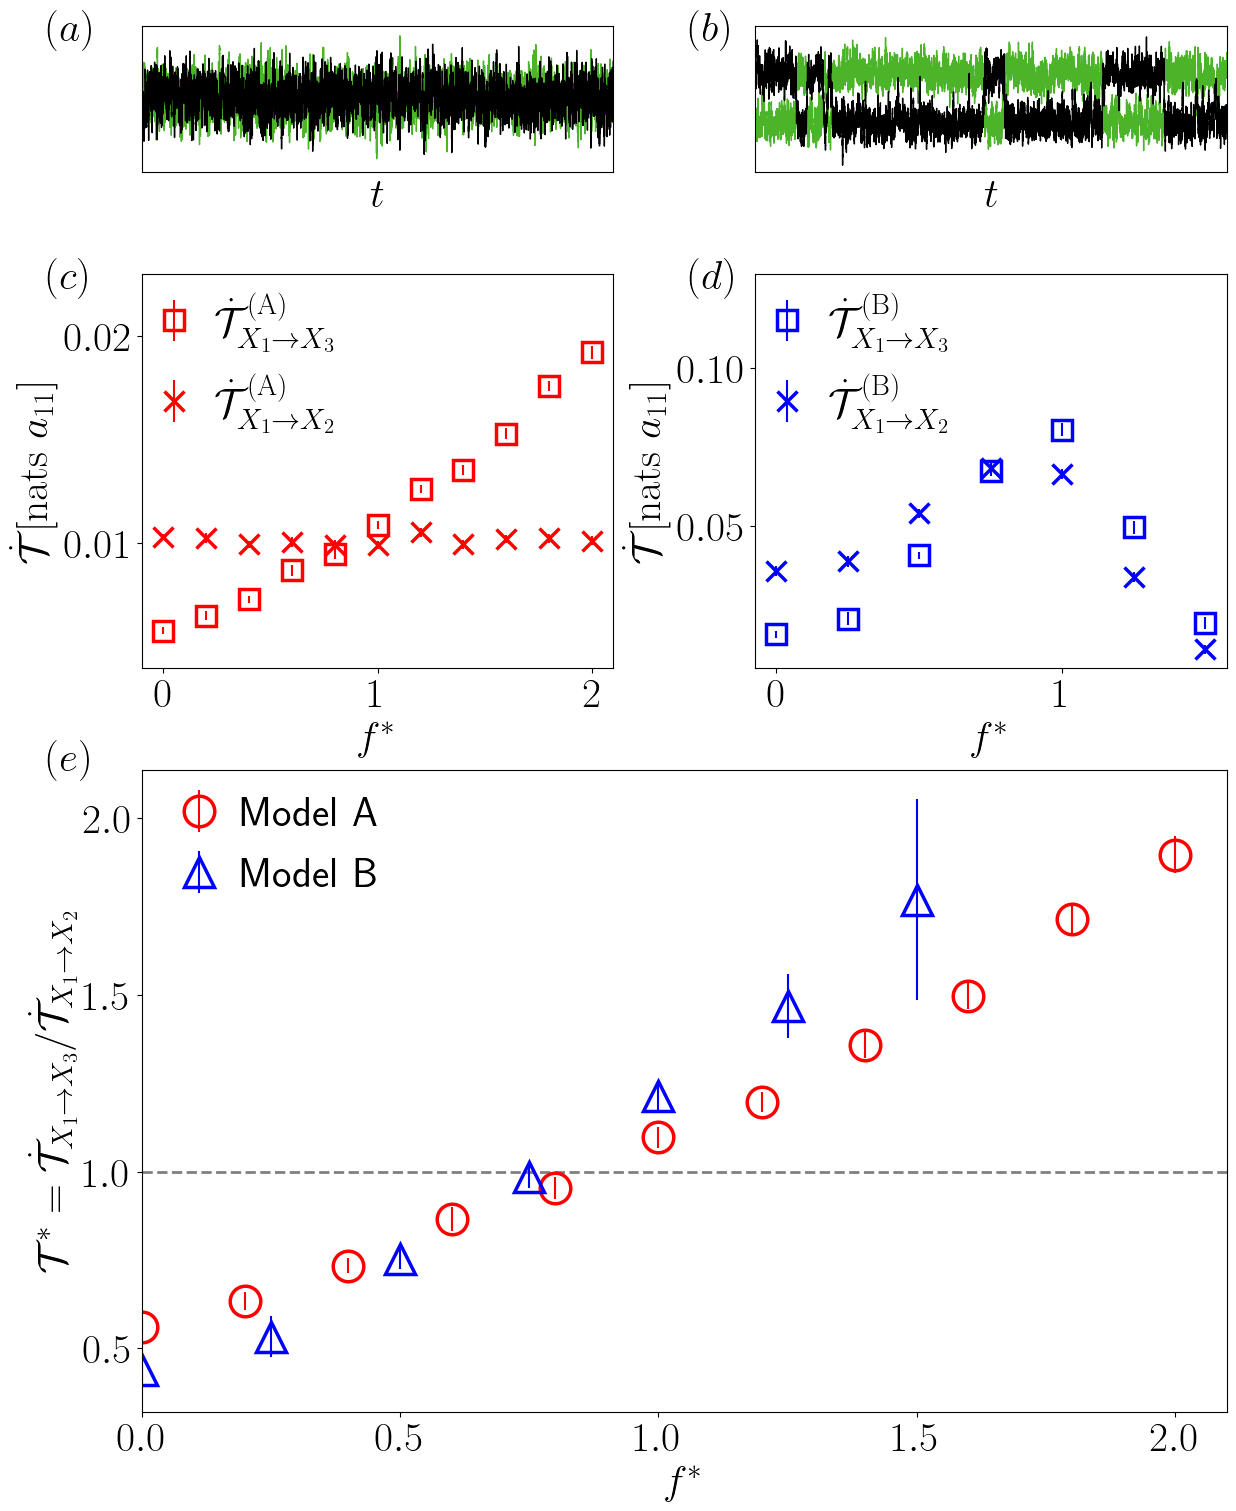
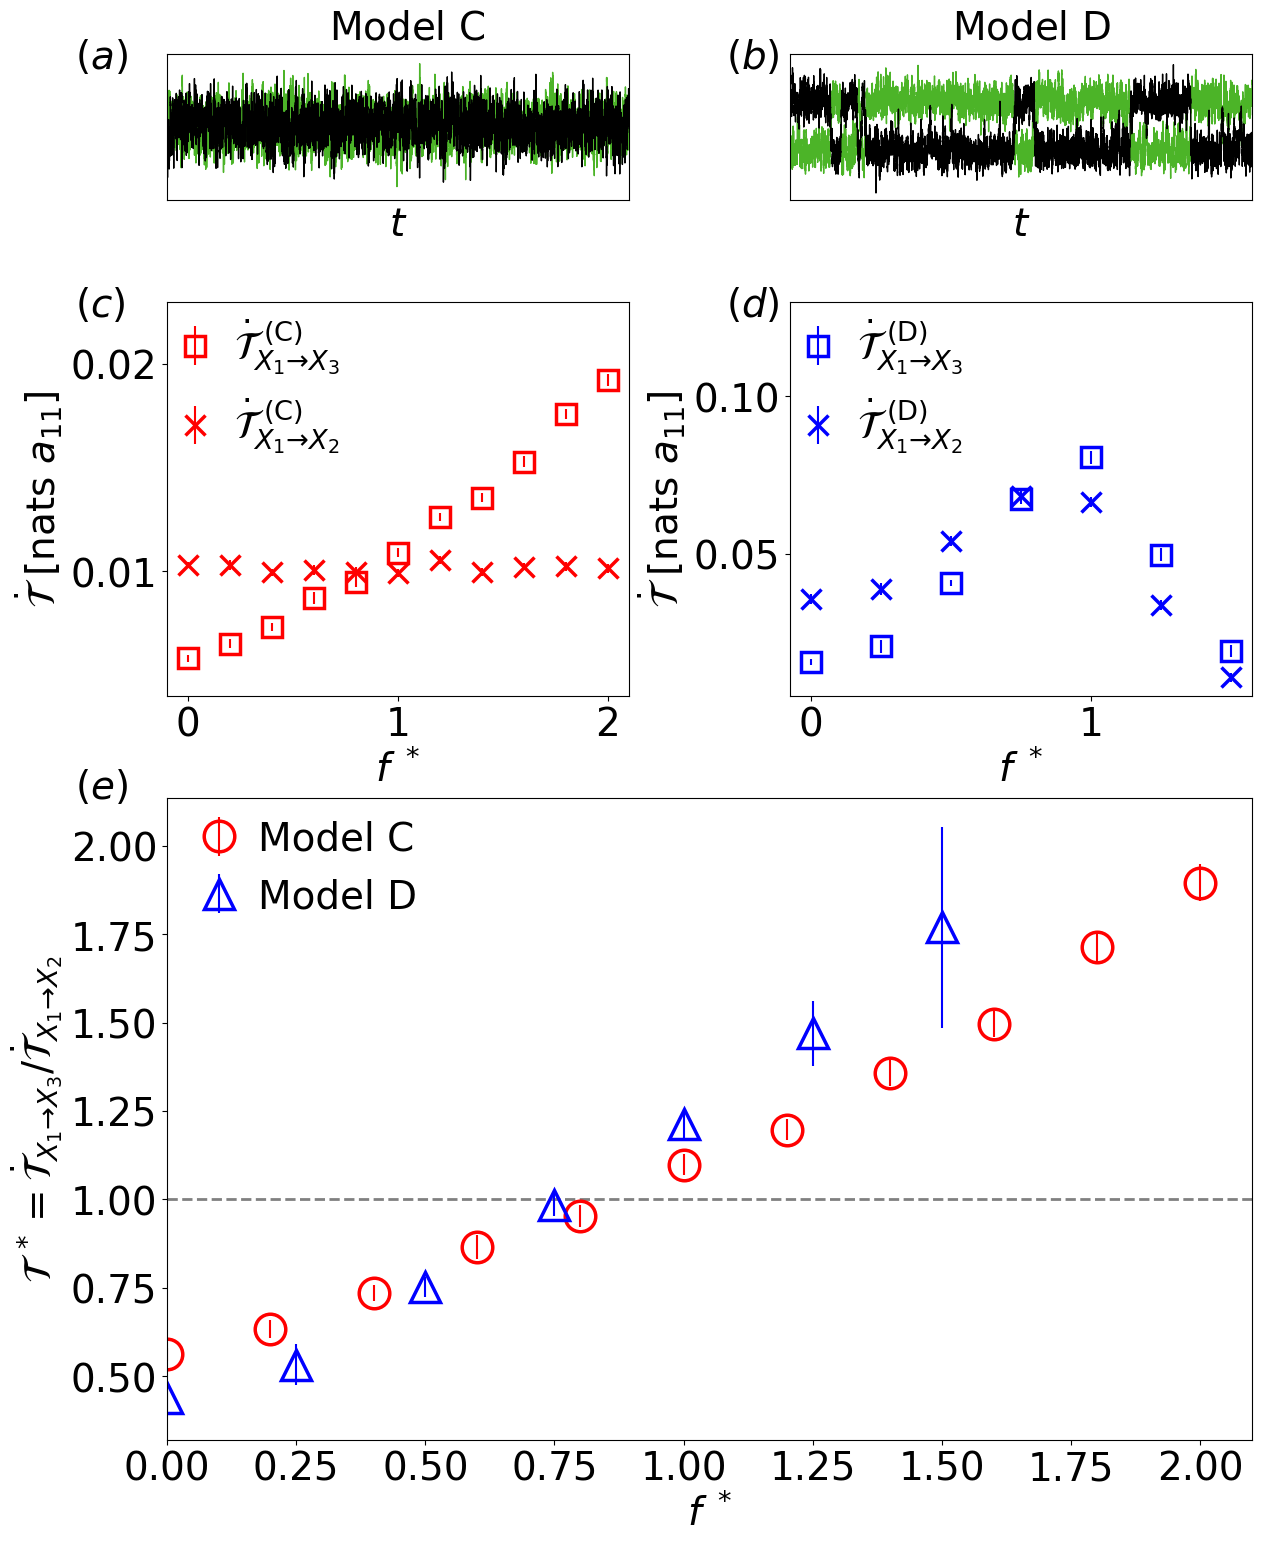
Add files via upload

diff --git a/figures/fig3/plot_dpi_5.py b/figures/fig3/plot_dpi_5.py
@@ -1,0 +1,101 @@
+import math
+import copy
+import time
+import numba
+import numpy as np
+import scipy.ndimage
+import numpy.random
+from matplotlib import pyplot as plt
+from matplotlib import cm
+from mpl_toolkits.axes_grid1.inset_locator import inset_axes
+#import pandas as pd
+import matplotlib as mpl
+from matplotlib.lines import Line2D
+import matplotlib.image as mpimg
+from matplotlib.offsetbox import TextArea, DrawingArea, OffsetImage, AnnotationBbox
+import matplotlib.gridspec as gridspec
+from mpl_toolkits.mplot3d import Axes3D
+from numba import jit
+from io import StringIO
+
+#mpl.style.use("classic")
+#mpl.rcParams['mathtext.fontset'] = 'cm'
+#mpl.rcParams['mathtext.rm'] = 'serif'
+#mpl.rcParams.update({'font.size': 22})
+plt.rc('font', size = 28)
+#plt.rc('text', usetex = True)
+plt.rc('mathtext',rm='dejavusans')
+plt.rc('mathtext',fontset='dejavusans')
+
+fig = plt.figure(figsize = (14, 18))
+plt.subplots_adjust(hspace=0.7,wspace=0.35)
+gs = gridspec.GridSpec(6, 2)
+ax00=fig.add_subplot(gs[0,0])
+ax01=fig.add_subplot(gs[0,1])
+axn0=fig.add_subplot(gs[1:3,0])
+axn1=fig.add_subplot(gs[1:3,1])
+ax10=fig.add_subplot(gs[3:,:])
+
+xl=np.loadtxt('te_linear.txt',skiprows=1)
+xs=np.loadtxt('te_switching.txt',skiprows=1)
+
+axn0.errorbar(xl[:,0]/xl[:,1],xl[:,4],yerr=xl[:,5],marker='s',color='r',ms=15,fillstyle='none',mew=2.5,linestyle='None',label=r'$\dot{\mathcal{T}}_{X_{1}\to X_{3}}^{~(\mathrm{C})}$')
+axn0.errorbar(xl[:,0]/xl[:,1],xl[:,2],yerr=xl[:,3],marker='x',color='r',ms=15,fillstyle='none',mew=2.5,linestyle='None',label=r'$\dot{\mathcal{T}}_{X_{1}\to X_{2}}^{~(\mathrm{C})}$')
+
+axn1.errorbar(xs[:,0]/xs[:,1],xs[:,4],yerr=xs[:,5],marker='s',color='b',ms=15,fillstyle='none',mew=2.5,linestyle='None',label=r'$\dot{\mathcal{T}}_{X_{1}\to X_{3}}^{~(\mathrm{D})}$')
+axn1.errorbar(xs[:,0]/xs[:,1],xs[:,2],yerr=xs[:,3],marker='x',color='b',ms=15,fillstyle='none',mew=2.5,linestyle='None',label=r'$\dot{\mathcal{T}}_{X_{1}\to X_{2}}^{~(\mathrm{D})}$')
+
+axn0.set_xlabel(r'$f^{~*}$')
+axn1.set_xlabel(r'$f^{~*}$')
+axn0.set_ylabel(r'$\dot{\mathcal{T}}~[\mathrm{nats}~a_{11}]$')
+axn1.set_ylabel(r'$\dot{\mathcal{T}}~[\mathrm{nats}~a_{11}]$')
+axn0.set_ylim(0.004,0.023)
+axn1.set_ylim(0.005,0.13)
+axn0.set_yticks([0.01,0.02])
+axn1.set_yticks([0.05,0.1])
+axn0.legend(frameon='False',framealpha=0.0,loc='upper left',bbox_to_anchor=(-0.1, 1.05),handletextpad=0.0)
+axn1.legend(frameon='False',framealpha=0.0,loc='upper left',bbox_to_anchor=(-0.1, 1.05),handletextpad=0.0)
+
+ax10.hlines(1,0,15,color='gray',linestyle='--',lw=2)
+ax10.errorbar(xl[:,0]/xl[:,1],xl[:,4]/xl[:,2],yerr=xl[:,4]/xl[:,2]*(xl[:,5]**2/xl[:,4]**2+xl[:,3]**2/xl[:,2]**2)**0.5,marker='o',color='r',ms=22,fillstyle='none',mew=2.5,linestyle='None',label=r'Model C')
+ax10.errorbar(xs[:,0]/xs[:,1],xs[:,4]/xs[:,2],yerr=xs[:,4]/xs[:,2]*(xs[:,5]**2/xs[:,4]**2+xs[:,3]**2/xs[:,2]**2)**0.5,marker='^',color='b',ms=22,fillstyle='none',mew=2.5,linestyle='None',label=r'Model D')
+#ax10.set_xscale('log')
+ax10.set_xlim(0,2.1)
+#ax00.set_ylim(-0.005,0.125)
+ax10.set_xlabel(r'$f^{~*}$')
+ax10.set_ylabel(r'$\mathcal{T}^{~*}=\dot{\mathcal{T}}_{X_{1}\to X_{3}}/\dot{\mathcal{T}}_{X_{1}\to X_{2}}$')
+#plt.tight_layout()
+#plt.show()
+#np.savetxt('data_experiment_t21.txt',np.stack((ts[::s]*mu0unit,Tn[::s,0]/ts[::s]/mu0unit,Tne[::s,0]/ts[::s]/mu0unit),axis=-1))
+ax10.legend(frameon='False',framealpha=0.0,loc='upper left',bbox_to_anchor=(-0.02, 1.02),handletextpad=0.0)
+
+xA=np.loadtxt('traj_linear.txt',skiprows=1)
+xB=np.loadtxt('traj_switching.txt',skiprows=1)
+
+ax00.plot(xA[:,0],color='#4cb428ff',lw=1)
+ax00.plot(xA[:,1],color='k',lw=1)
+ax00.set_xlim(0,20000)
+
+ax01.plot(xB[:,0],color='#4cb428ff',lw=1)
+ax01.plot(xB[:,1],color='k',lw=1)
+ax01.set_xlim(8000,28000)
+
+ax00.set_xticks([])
+ax00.set_yticks([])
+ax01.set_xticks([])
+ax01.set_yticks([])
+
+ax00.set_xlabel(r'$t$')
+ax01.set_xlabel(r'$t$')
+
+ax00.annotate(r'$\mathrm{Model~C}$',xy=(0.35,1.1),xycoords='axes fraction')
+ax01.annotate(r'$\mathrm{Model~D}$',xy=(0.35,1.1),xycoords='axes fraction')
+
+#plt.show()
+ax00.annotate(r'$(a)$',xy=(-0.2,0.9),xycoords='axes fraction')
+ax01.annotate(r'$(b)$',xy=(-0.14,0.9),xycoords='axes fraction')
+ax00.annotate(r'$(c)$',xy=(-0.2,-0.8),xycoords='axes fraction')
+ax01.annotate(r'$(d)$',xy=(-0.14,-0.8),xycoords='axes fraction')
+ax00.annotate(r'$(e)$',xy=(-0.2,-4.1),xycoords='axes fraction')
+plt.savefig('fig_dpi_4.png',bbox_inches='tight',pad_inches=0.1)
+#plt.show()
